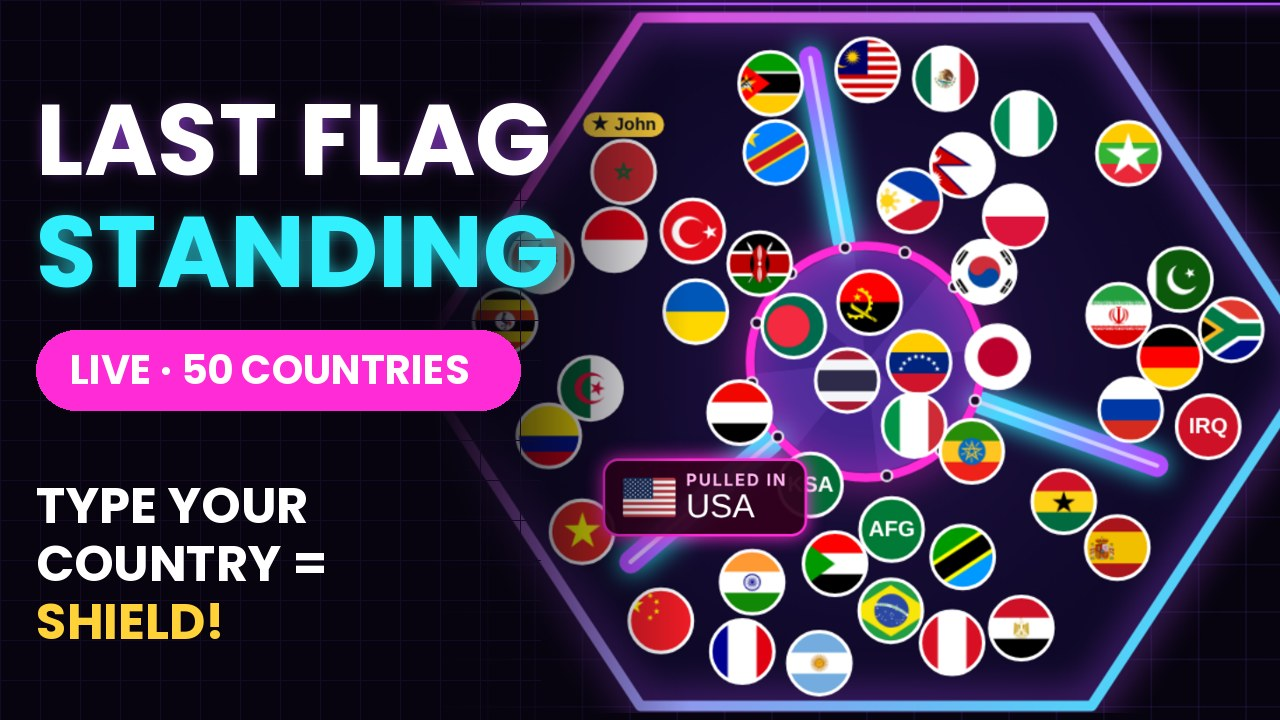
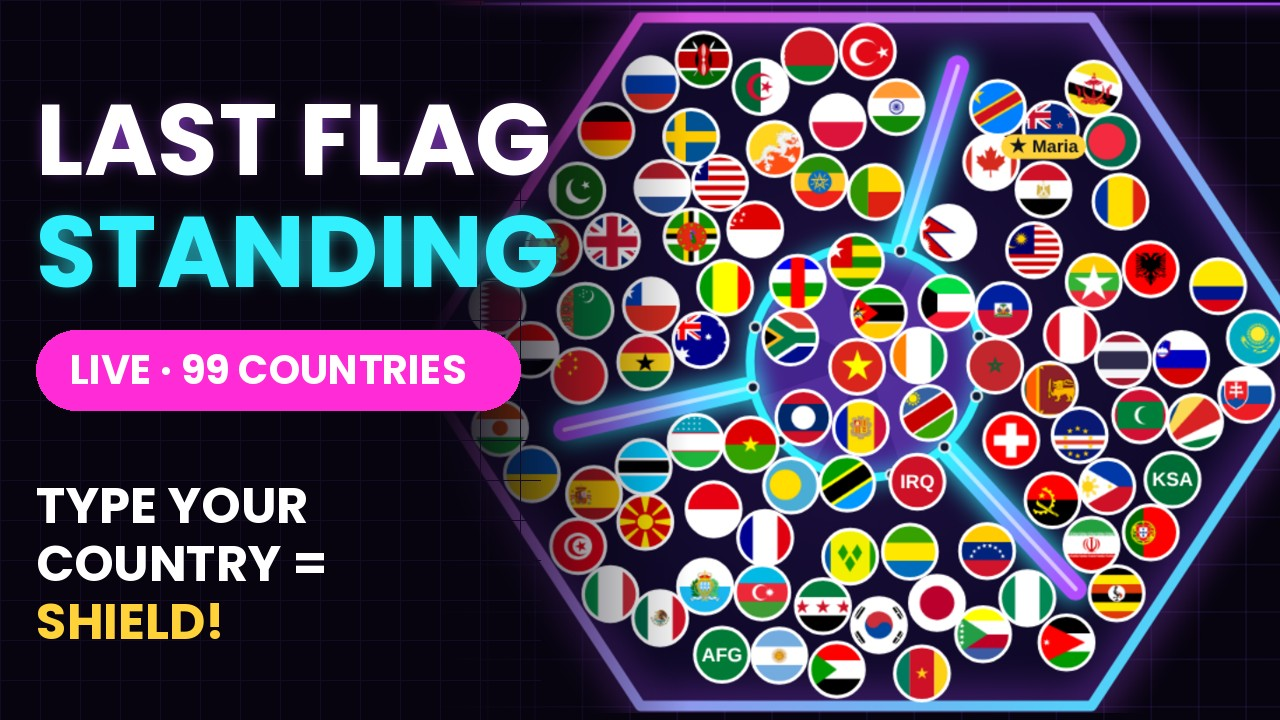
Last Flag Standing: 99 countries by default; three new 99-country thumbnails, a different one on every live
Claude-Session: https://claude.ai/code/session_01VvmryXB8JiXzpbykYWxNsg

diff --git a/public/lastflag/lastflag.js b/public/lastflag/lastflag.js
@@ -17,7 +17,7 @@ const FAST = clamp(Number(QS.get('fast')) || 1, 1, 200);   // testing only
 const pick = (a) => a[Math.floor(Math.random() * a.length)];
 const shuffle = (a) => { for (let i = a.length - 1; i > 0; i--) { const j = Math.floor(Math.random() * (i + 1)); [a[i], a[j]] = [a[j], a[i]]; } return a; };
 
-const DEF = { gap: 5, music: true, music_style: 'upbeat', music_vol: 35, title: 'LAST FLAG STANDING', count: 50, minutes: 55, shield: 10, revive: 20, revives: 5, likes: 50, viewers: 100, events: true, rev: '', reset: '' };
+const DEF = { gap: 5, music: true, music_style: 'upbeat', music_vol: 35, title: 'LAST FLAG STANDING', count: 99, minutes: 55, shield: 10, revive: 20, revives: 5, likes: 50, viewers: 100, events: true, rev: '', reset: '' };
 // the world's biggest countries, biggest first: the first BIG_ALWAYS are in every round, the rest fill up the free places
 const BIG = ['cn', 'in', 'us', 'id', 'pk', 'ng', 'br', 'bd', 'ru', 'mx', 'jp', 'et', 'ph', 'eg', 'vn', 'cd', 'ir', 'tr', 'de', 'th',
   'gb', 'fr', 'it', 'za', 'tz', 'ke', 'kr', 'co', 'mm', 'es', 'ar', 'dz', 'sd', 'ug', 'iq', 'ca', 'pl', 'ma', 'af', 'ua',
@@ -99,7 +99,7 @@ async function main() {
   const flagCss = (code, w) => { const i = byCode.get(code), h = w * 0.75; return `width:${w}px;height:${h}px;background-size:${COLS_A * w}px ${ROWS_A * h}px;background-position:${-(i % COLS_A) * w}px ${-Math.floor(i / COLS_A) * h}px`; };
   const flagHTML = (code, w) => `<span class="flag" style="${flagCss(code, w)}"></span>`;
   const flagNode = (code, w = 40) => { const d = document.createElement('span'); d.className = 'flag'; d.style.cssText = flagCss(code, w); return d; };
-  const COUNT = clamp(Math.round(cfg.count) || 50, 16, 100);
+  const COUNT = clamp(Math.round(cfg.count) || 99, 16, 100);
   const R = COUNT > 72 ? 31 : COUNT > 48 ? 36 : 41;      // ball radius
   const SPEED = 190;
   const CYCLE = clamp(Number(cfg.gap) || 5, 2, 30);   // seconds the hole stays closed between openings

diff --git a/public/lastflag/index.html b/public/lastflag/index.html
@@ -69,6 +69,6 @@
     TAP FOR SOUND
   </button>
 </div>
-<script type="module" src="/lastflag/lastflag.js?v=3"></script>
+<script type="module" src="/lastflag/lastflag.js?v=4"></script>
 </body>
 </html>

diff --git a/public/admin/yt_live.php b/public/admin/yt_live.php
@@ -85,7 +85,7 @@ if ($_SERVER['REQUEST_METHOD'] === 'POST') {
     $x['titles'] = array_slice(array_values(array_filter(array_map(fn ($l) => trim(str_replace(['<', '>'], '', $l)), preg_split('/\R/', (string) ($_POST['titles'] ?? '')) ?: []), fn ($l) => $l !== '')), 0, YTX_MAX_TITLES);
     foreach ($x['titles'] as $tl) if (mb_strlen($tl) > 100) $errors[] = 'A title in the list is too long (YouTube allows 100 letters): “' . mb_substr($tl, 0, 40) . '…”';
     if ($x['tmode'] === 'list' && count($x['titles']) < 2) $errors[] = 'Write at least 2 titles in the list (one per line), or choose “Always the title above”.';
-    $x['thmode'] = ($_POST['thmode'] ?? '') === 'list' ? 'list' : 'one';
+    $x['thmode'] = in_array($_POST['thmode'] ?? 'one', ['list', ''], true) ? (string) $_POST['thmode'] : 'one';
     $del = array_map('strval', (array) ($_POST['xdel'] ?? []));
     foreach ($del as $dn) if (in_array($dn, $x['thumbs'], true)) { @unlink(ytx_thumb_path($id, $dn)); }
     $x['thumbs'] = array_values(array_filter($x['thumbs'], fn ($n) => !in_array($n, $del, true) && is_file(ytx_thumb_path($id, $n))));
@@ -184,11 +184,15 @@ page_start('Title & thumbnail', 'youtube', $admin);
       </div>
       <div class="field xbox"><span>More thumbnails</span>
         <div class="radios">
-          <label><input type="radio" name="thmode" value="one" <?= $x['thmode'] !== 'list' ? 'checked' : '' ?>> Always one picture (the one above)</label>
+          <label><input type="radio" name="thmode" value="one" <?= $x['thmode'] === 'one' || ($x['thmode'] === '' && !ytx_game_thumbs($s)) ? 'checked' : '' ?>> Always one picture (the one above)</label>
+          <?php if (ytx_game_thumbs(['yt_thumb' => 'default'] + $s)): ?><label><input type="radio" name="thmode" value="" <?= $x['thmode'] === '' && $thumbChoice === 'default' ? 'checked' : '' ?>> 🎲 The game's <?= count(ytx_game_thumbs(['yt_thumb' => 'default'] + $s)) ?> ready-made pictures, a different one on every live</label><?php endif; ?>
           <label><input type="radio" name="thmode" value="list" <?= $x['thmode'] === 'list' ? 'checked' : '' ?>> 🎲 A different picture from these on every live</label>
         </div>
         <div class="xthumbs">
           <figure><img alt="Main thumbnail" src="yt_thumb.php?id=<?= $id ?>&amp;v=<?= (int) $s['yt_rev'] ?>" onerror="this.style.visibility='hidden'"><figcaption>The one above</figcaption></figure>
+          <?php foreach (array_slice(ytx_game_thumbs(['yt_thumb' => 'default'] + $s), 1) as $gi => $gf): ?>
+            <figure><img alt="Ready-made thumbnail" src="yt_thumb.php?id=<?= $id ?>&amp;g=<?= $gi + 2 ?>"><figcaption>Ready-made <?= $gi + 2 ?></figcaption></figure>
+          <?php endforeach; ?>
           <?php foreach ($x['thumbs'] as $xn): ?>
             <figure><img alt="Extra thumbnail" src="yt_thumb.php?id=<?= $id ?>&amp;x=<?= e($xn) ?>"><figcaption><label class="check"><input type="checkbox" name="xdel[]" value="<?= e($xn) ?>"> remove</label></figcaption></figure>
           <?php endforeach; ?>

diff --git a/app/ytextra.php b/app/ytextra.php
@@ -14,7 +14,7 @@ const YTX_MAX_TITLES = 20, YTX_MAX_THUMBS = 5;   // own extra pictures (+ the ma
 
 function ytx_get(int $id): array
 {
-    $d = ['tmode' => '', 'titles' => [], 'thmode' => 'one', 'thumbs' => [], 'pin_on' => false, 'pin_text' => '', 'pin_every' => 60];
+    $d = ['tmode' => '', 'titles' => [], 'thmode' => '', 'thumbs' => [], 'pin_on' => false, 'pin_text' => '', 'pin_every' => 60];
     $c = json_decode((string) (setting_get('ytx_' . $id) ?? ''), true);
     return is_array($c) ? array_merge($d, array_intersect_key($c, $d)) : $d;
 }
@@ -45,6 +45,16 @@ function ytx_game_titles(array $s): array
     return array_values(array_filter((array) ($d['titles'] ?? []), fn ($t) => mb_strlen($t) <= 100));
 }
 
+/** The game's ready-made thumbnails (app/yt/<game>.jpg, <game>_2.jpg …) — used in turn when the stream uses the ready-made one. */
+function ytx_game_thumbs(array $s): array
+{
+    if ((string) ($s['yt_thumb'] ?? 'default') !== 'default') return [];
+    $g = game_of_url((string) $s['page_url']);
+    $out = [];
+    foreach (['', '_2', '_3', '_4', '_5'] as $k) { $f = APP_DIR . '/yt/' . $g . $k . '.jpg'; if (is_file($f)) $out[] = $f; }
+    return count($out) > 1 ? $out : [];
+}
+
 /** Pick at random, but not the one used last time (when there is a choice). */
 function ytx_random(int $n, int $last): int
 {
@@ -65,7 +75,7 @@ function ytx_pick(array $s): array
     $p = json_decode((string) (setting_get('ytx_pick_' . $id) ?? ''), true) ?: [];
     if (($p['start'] ?? -1) !== $start || !array_key_exists('ti', $p)) {
         $titles = $c['tmode'] === 'list' ? $c['titles'] : ($c['tmode'] === '' ? ytx_game_titles($s) : []);
-        $thumbs = $c['thmode'] === 'list' ? array_merge(['main'], $c['thumbs']) : [];
+        $thumbs = $c['thmode'] === 'list' ? array_merge(['main'], $c['thumbs']) : ($c['thmode'] === '' ? ytx_game_thumbs($s) : []);
         $p = ['start' => $start,
               'ti' => $titles ? ytx_random(count($titles), (int) ($p['ti'] ?? -1)) : -1,
               'th' => count($thumbs) > 1 ? ytx_random(count($thumbs), (int) ($p['th'] ?? -1)) : -1];
@@ -77,6 +87,9 @@ function ytx_pick(array $s): array
     if ($c['thmode'] === 'list' && $p['th'] > 0 && isset($c['thumbs'][$p['th'] - 1])) {
         $f = ytx_thumb_path($id, (string) $c['thumbs'][$p['th'] - 1]);
         if (is_file($f)) $thumb = [$f, 'image/jpeg'];
+    } elseif ($c['thmode'] === '' && $p['th'] >= 0) {
+        $g = ytx_game_thumbs($s);
+        if (isset($g[$p['th']]) && is_file($g[$p['th']])) $thumb = [$g[$p['th']], 'image/jpeg'];
     }
     return ['title' => $title, 'thumb' => $thumb];
 }

diff --git a/public/admin/yt_thumb.php b/public/admin/yt_thumb.php
@@ -12,6 +12,12 @@ if ($s && isset($_GET['x'])) {   // one of the extra thumbnails (YouTube Manager
     header('Content-Type: image/jpeg'); header('Cache-Control: private, max-age=300'); header('X-Content-Type-Options: nosniff');
     readfile($xf); exit;
 }
+if ($s && isset($_GET['g'])) {   // the game's ready-made picture number g (2, 3 …)
+    $gf = APP_DIR . '/yt/' . game_of_url((string) $s['page_url']) . '_' . max(2, min(9, (int) $_GET['g'])) . '.jpg';
+    if (!is_file($gf)) { http_response_code(404); exit; }
+    header('Content-Type: image/jpeg'); header('Cache-Control: private, max-age=300'); header('X-Content-Type-Options: nosniff');
+    readfile($gf); exit;
+}
 if ($s && isset($_GET['def'])) {
     $s['yt_thumb'] = 'default';
 }

diff --git a/public/admin/lastflag.php b/public/admin/lastflag.php
@@ -89,7 +89,7 @@ page_start('Last Flag Standing', 'games', $admin);
       </label>
       <label class="field"><span>Countries in a round</span>
         <input name="count" type="number" min="16" max="100" required value="<?= (int) $cfg['count'] ?>">
-        <small class="muted">50 = normal. Your viewers' countries are always in; countries people comment join the next round.</small>
+        <small class="muted">99 = normal (fewer = bigger flags). Your viewers' countries are always in; countries people comment join the next round.</small>
       </label>
       <label class="field"><span>Black hole opens every (seconds)</span>
         <input name="gap" type="number" min="2" max="30" required value="<?= (int) $cfg['gap'] ?>">

diff --git a/app/lastflag.php b/app/lastflag.php
@@ -7,7 +7,7 @@ function lastflag_defaults(): array
 {
     return array_merge(flags_defaults(), [
         'title' => 'LAST FLAG STANDING',
-        'count' => 50,
+        'count' => 99,
         'shield' => 10,
         'revive' => 20,
         'revives' => 0,
